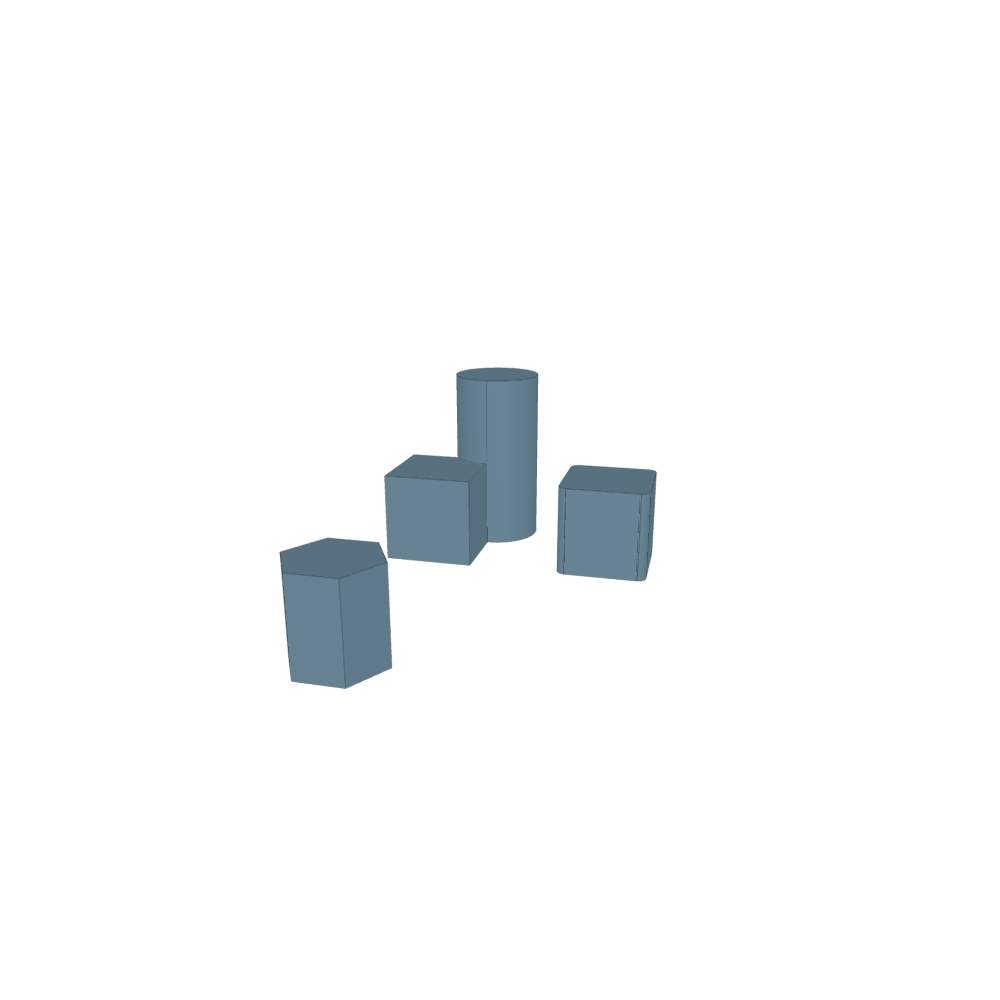
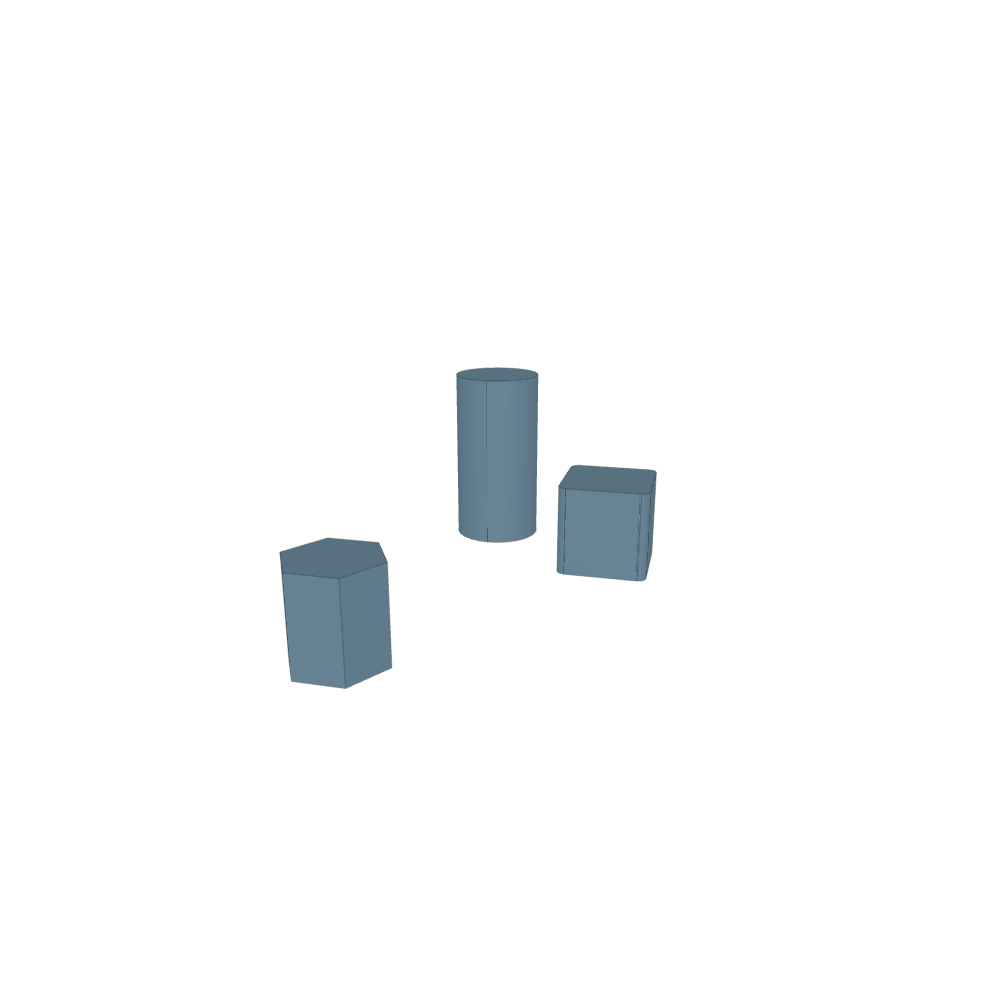
User Save

Changed region(s): [[0.372, 0.434, 0.496, 0.589]]

diff --git a/BillOfMaterials.md b/BillOfMaterials.md
@@ -2,4 +2,5 @@
 # Bill Of Materials 
  |Part|Number Needed|Price|Source| 
  |----|----------|-----|-----|
-|Total: |0|$0.00| |
+|testBom|1|$0.03||
+|Total: |1|$0.03| |
